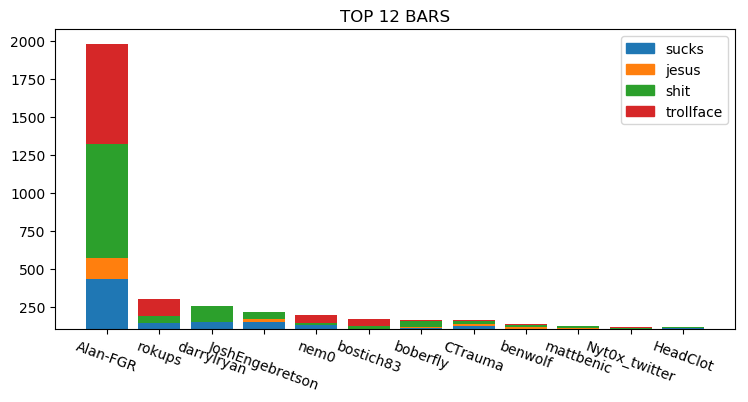
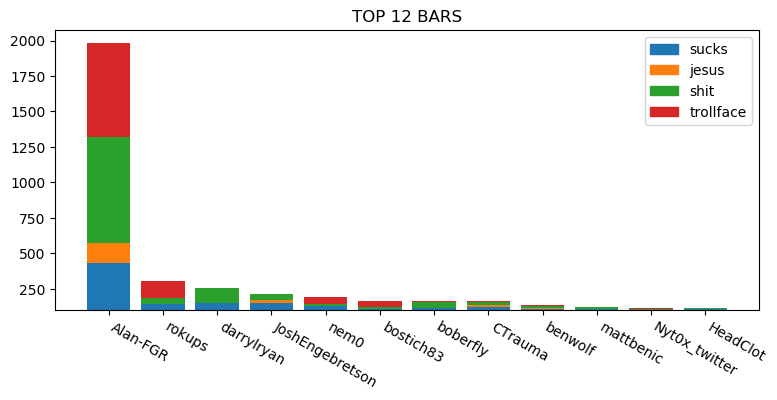
no message

Changed region(s): [[0.0, 0.0, 0.984, 0.96]]

diff --git a/update_stats.py b/update_stats.py
@@ -78,12 +78,12 @@ plt.savefig('piechart.png', bbox_inches='tight')
 num_users,top_scores,vals = GetPlottableVals(12)
 
 fig, ax = plt.subplots(figsize=(8, 4))
-plt.subplots_adjust(left=0.1, right=0.95, top=0.9, bottom=0.15)
+plt.subplots_adjust(left=0.07, right=0.95, top=0.9, bottom=0.2)
 bar_locations = np.arange(num_users)
 last_vals = [100]*num_users
 
 ax.set_xticks([x for x in range(num_users)])
-ax.set_xticklabels([name for name in sorted_scores], rotation=-20)
+ax.set_xticklabels([name for name in sorted_scores], rotation=-30, ha="left")
 ax.set(title='TOP '+str(num_users)+' BARS')
 
 for score in range(4):
@@ -92,7 +92,7 @@ for score in range(4):
         last_vals[user] += vals[user][score]
 
 plt.legend(handles=patches)
-
+# plt.show()
 plt.savefig('plot.png', bbox_inches='tight')
 #END PLOTTING
 
